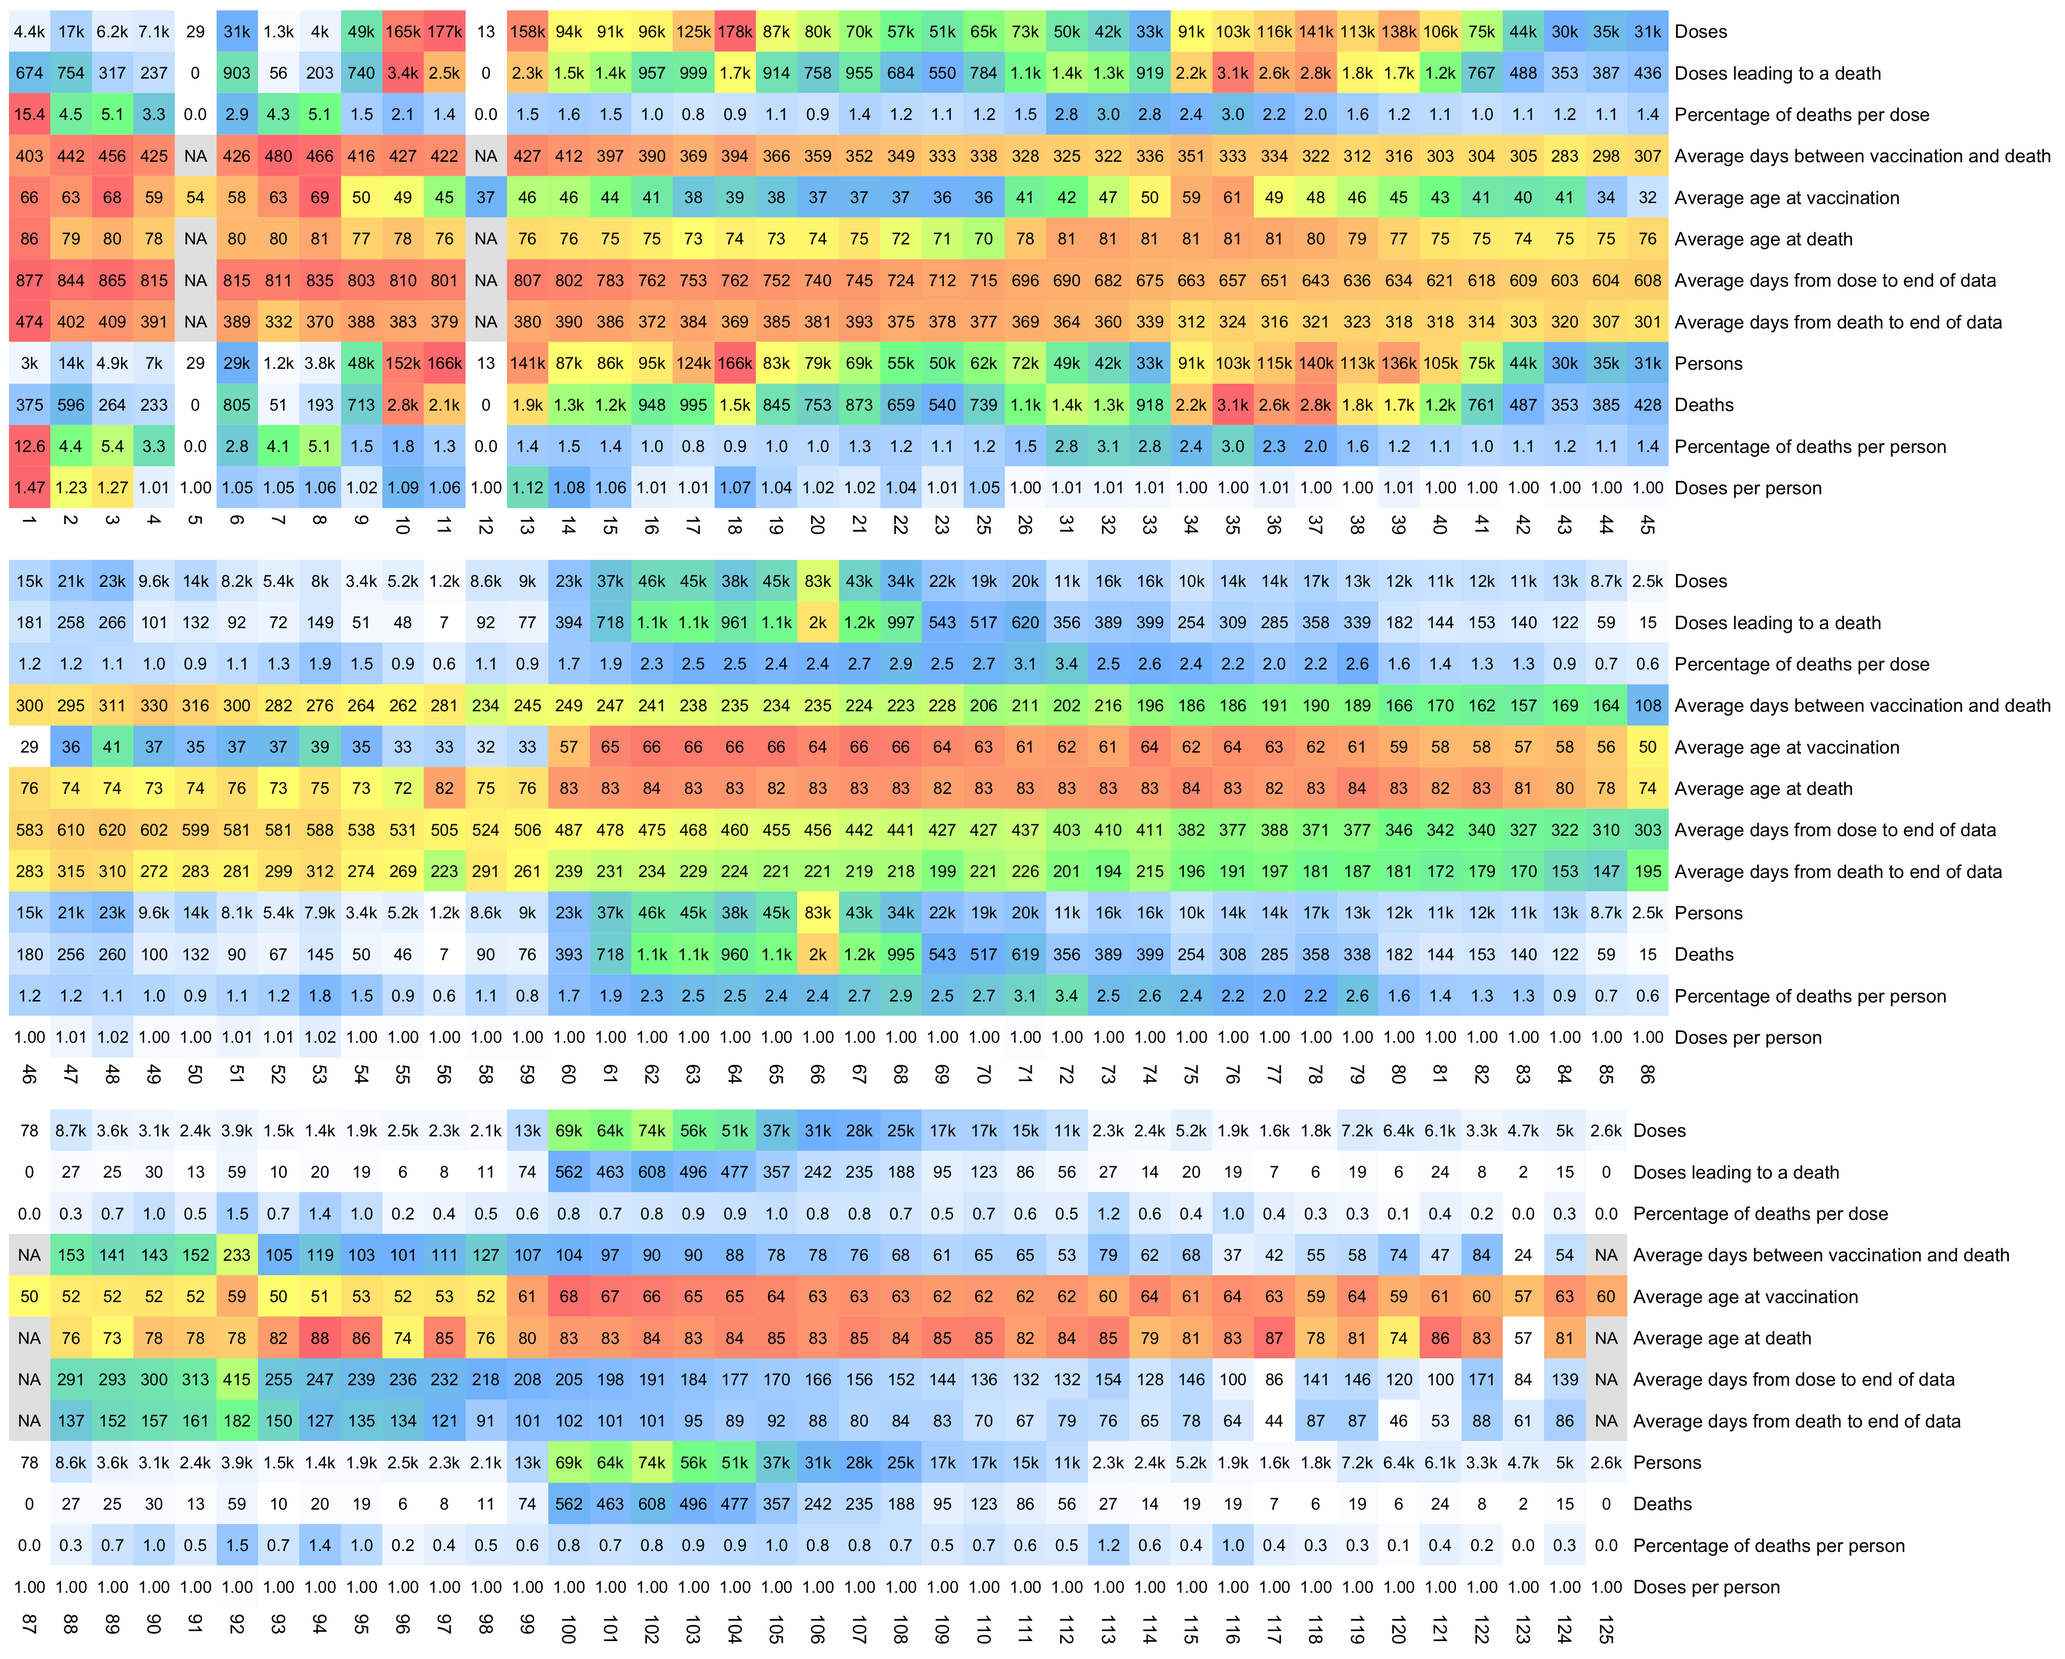
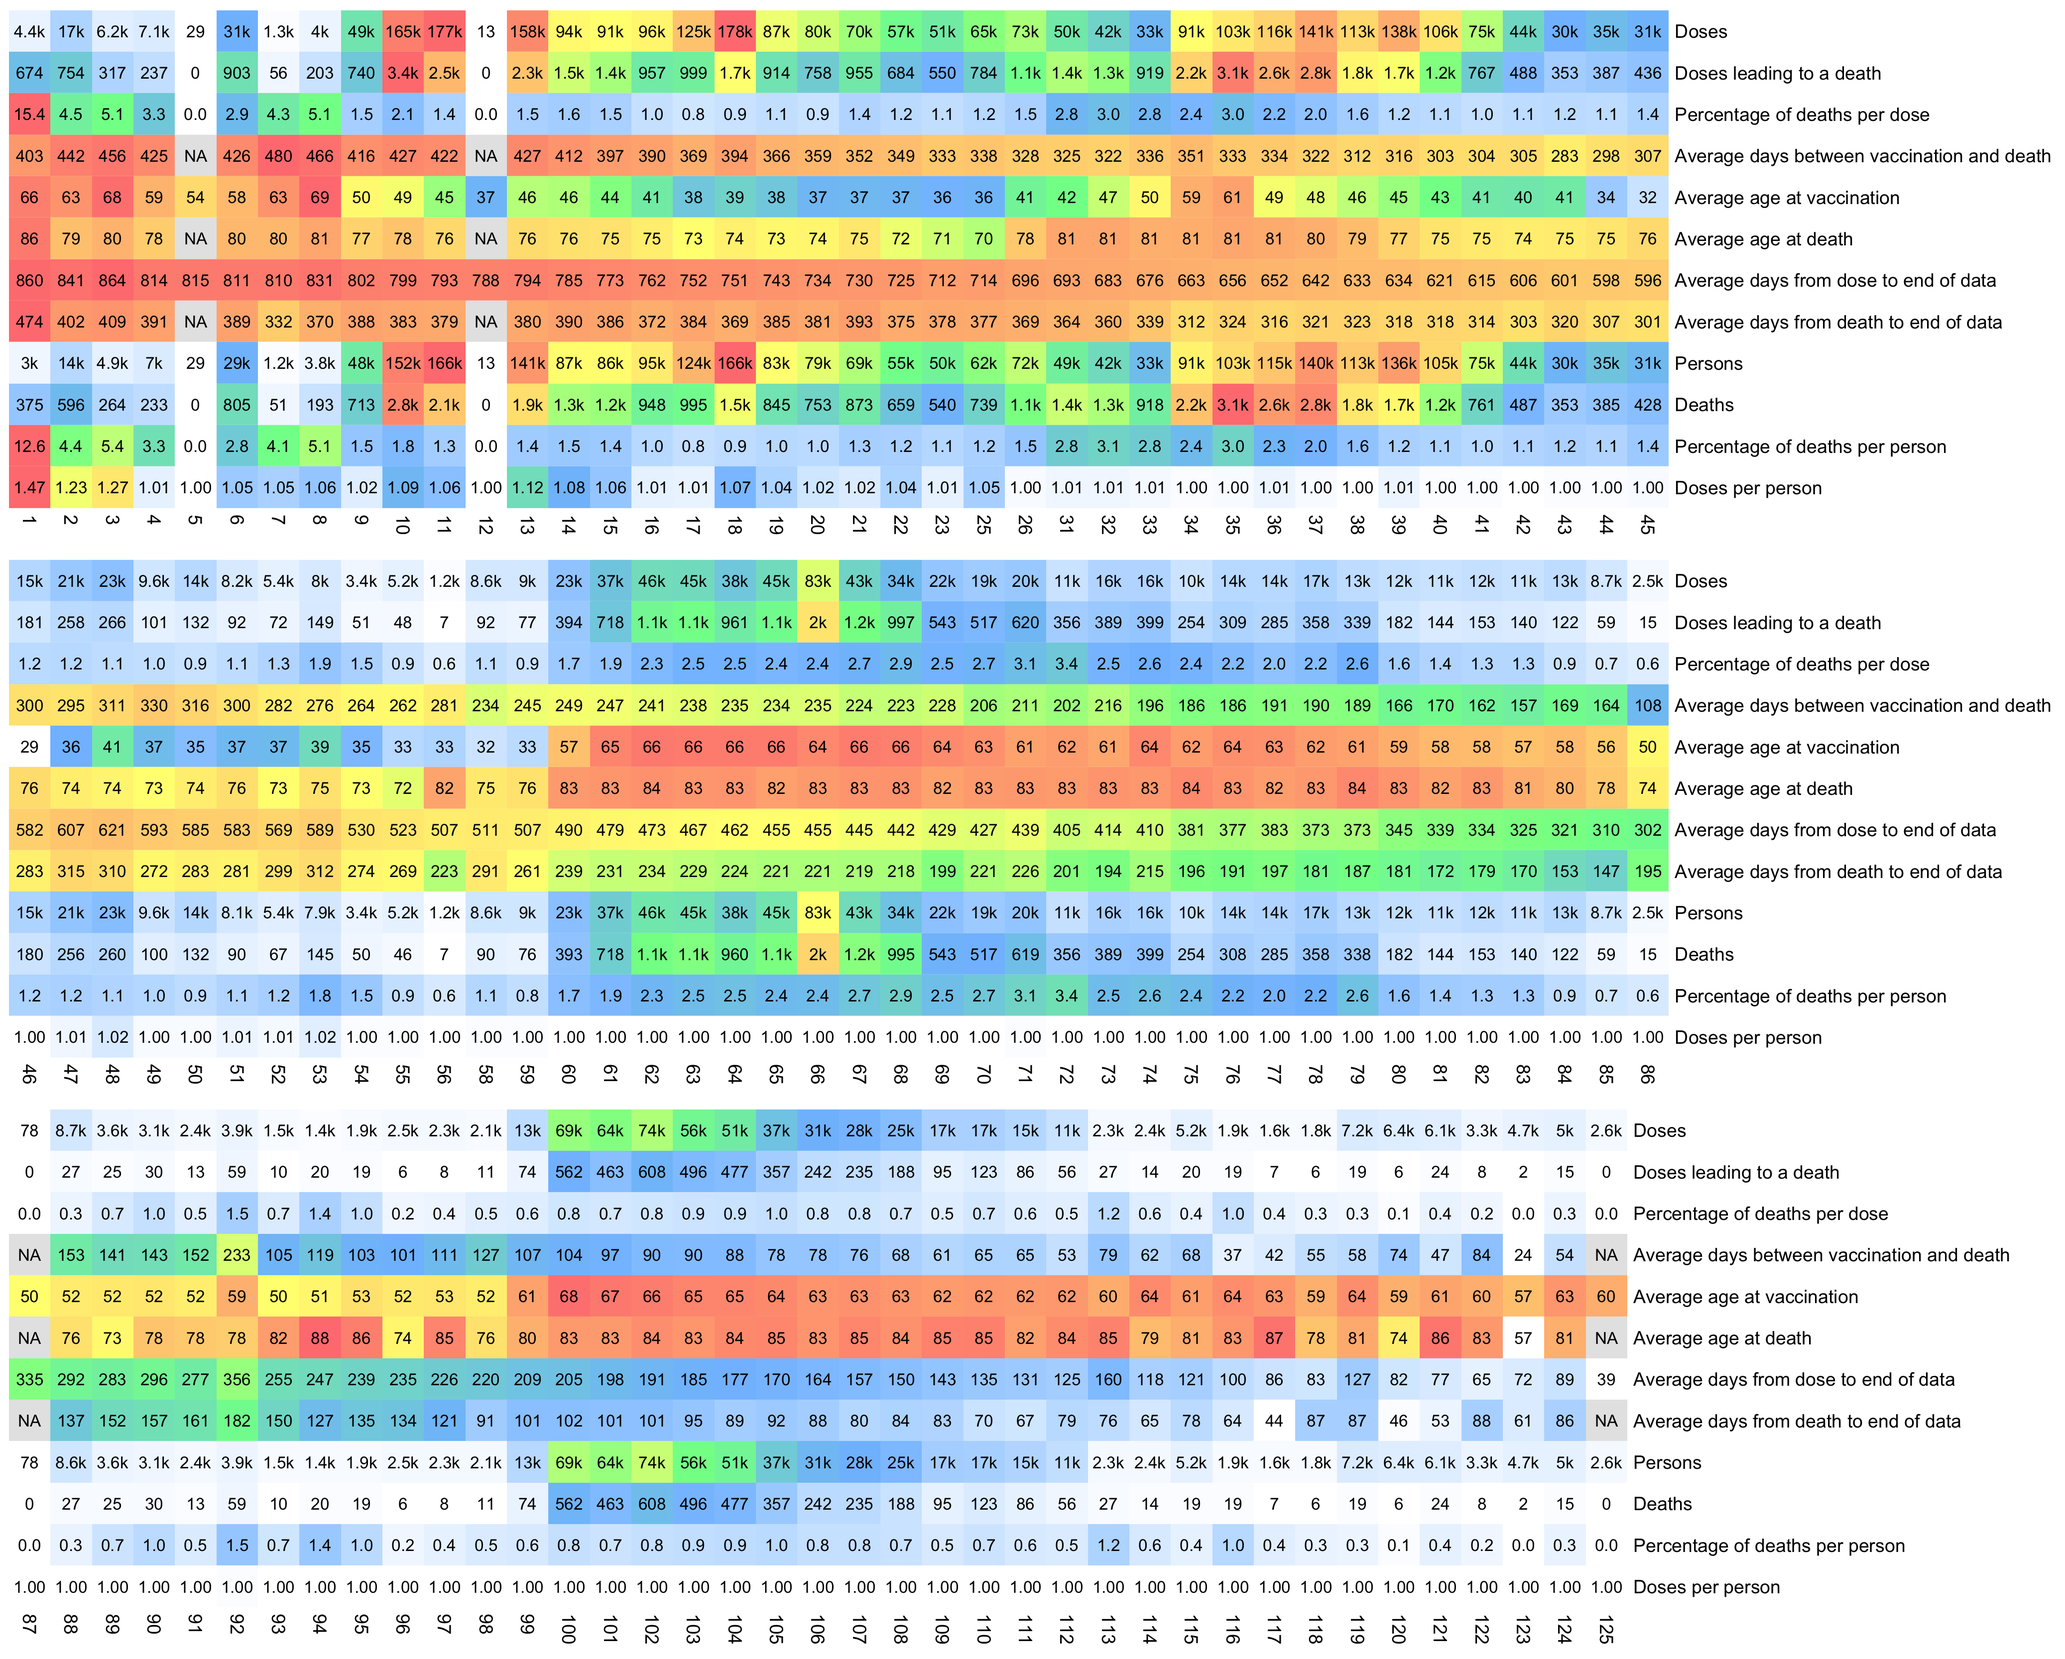
a

diff --git a/moar.html b/moar.html
@@ -172,7 +172,7 @@ $ awk -F, &#39;NR&gt;1{a[$3]++}END{for(i in a)print i,a[i]}&#39; nz-record-level
 28 1
 29 1
 32 1</pre>
-<p>There are 581 people who have different birthdays on different lines, but it might be an artifact of the obfuscation procedure where the dates of birth and vaccination were shifted by a random number of days (even though I thought that all dates of the same person were always shifted by the same amount of days):</p>
+<p>There are 581 people who have different birthdays on different lines, but it might be an artifact of the obfuscation procedure where the dates of birth and vaccination were shifted by a random number of days (even though from Kirsch's description it seemed that all dates of the same person were always shifted by the same amount of days):</p>
 <pre>$ cut -d, -f1,7 nz-record-level-data-4M-records.csv|awk &#39;!a[$0]++&#39;|awk -F, &#39;++a[$1]==2&#39;|wc -l
 581
 $ awk &#39;NR==1||/^292629,/&#39; nz-record-level-data-4M-records.csv
@@ -188,18 +188,18 @@ mrn,batch_id,dose_number,date_time_of_service,date_of_death,vaccine_name,date_of
 </div>
 <p>I noticed that the numbers in Young's table don't match the CSV file published by Kirsch, because for example batch 1 has a total of 711 doses in the table above but 4,386 doses in the CSV file. In the table above there's 5 different batches which have over 10% deaths, but in the CSV file there's only one batch with over 10% deaths. Some people received two doses from the same batch, so they are counted twice in columns 2-4 below but only once in columns 5-7, so for example there are 375 people who died after receiving batch 1, but many of them received two doses from batch 1 so there are 674 doses in batch 1 which led to a death:</p>
 <pre>$ awk -F, &#39;NR&gt;1{n[$2]++;n2[$2][$1]}$5{d[$2]++;d2[$2][$1]}END{for(i in d)print i FS n[i]FS d[i]FS 100*d[i]/n[i]FS length(n2[i])FS length(d2[i])FS 100*length(d2[i])/length(n2[i])}&#39; nz-record-level-data-4M-records.csv|sort -t, -rnk4|(echo batch,doses_given,doses_leading_to_deaths,doses_leading_to_deaths_pct,persons,deaths,deaths_per_person_pct;head)|column -ts,
-batch  doses_given  doses_leading_to_death  doses_leading_to_death_pct  persons  deaths  deaths_per_person_pct
-1      4386         674                     15.3671                     2979     375     12.5881
-3      6213         317                     5.10221                     4875     264     5.41538
-8      3986         203                     5.09282                     3774     193     5.11394
-2      16627        754                     4.53479                     13518    596     4.40894
-7      1288         56                      4.34783                     1232     51      4.13961
-72     10624        356                     3.3509                      10622    356     3.35153
-4      7111         237                     3.33286                     7015     233     3.32145
-71     20325        620                     3.05043                     20276    619     3.05287
-35     103143       3141                    3.04529                     102759   3129    3.04499
-32     42178        1281                    3.03713                     41866    1277    3.05021</pre>
-<p>Uncle John Returns figured out that people who later went on to have a subsequent vaccine dose were excluded from Young's table. [<a href="https://x.com/UncleJo46902375/status/1731625480527257928">https://x.com/UncleJo46902375/status/1731625480527257928</a>] You can almost reproduce the table if you sort the records by vaccination date and select only the newest record for each person (apart from small discrepancies in the number of deaths for some batches):</p>
+batch  doses   doses_leading_to_death  doses_leading_to_death_pct  persons  deaths  deaths_per_person_pct
+1      4386    674                     15.3671                     2979     375     12.5881
+3      6213    317                     5.10221                     4875     264     5.41538
+8      3986    203                     5.09282                     3774     193     5.11394
+2      16627   754                     4.53479                     13518    596     4.40894
+7      1288    56                      4.34783                     1232     51      4.13961
+72     10624   356                     3.3509                      10622    356     3.35153
+4      7111    237                     3.33286                     7015     233     3.32145
+71     20325   620                     3.05043                     20276    619     3.05287
+35     103143  3141                    3.04529                     102759   3129    3.04499
+32     42178   1281                    3.03713                     41866    1277    3.05021</pre>
+<p>Uncle John Returns figured out that people who later went on to have a subsequent vaccine dose were excluded from Young's table. [<a href="https://x.com/UncleJo46902375/status/1731625480527257928">https://x.com/UncleJo46902375/status/1731625480527257928</a>] You can almost reproduce the table if you sort the records by vaccination date and select only the newest record for each person (but for some reason there are small discrepancies in the number of deaths for some batches):</p>
 <pre>&gt; t=read.csv(&quot;nz-record-level-data-4M-records.csv&quot;)
 &gt; t2=t
 &gt; for(i in grep(&quot;date&quot;,colnames(t2)))t2[,i]=as.Date(t2[,i],&quot;%m-%d-%Y&quot;)
@@ -221,7 +221,7 @@ batch  doses_given  doses_leading_to_death  doses_leading_to_death_pct  persons 
     72  5882    280  4.760286
     62 18173    834  4.589226
     71 11019    504  4.573918</pre>
-<p>However Young's method exaggerates the percentage of deaths per batch, because a common reason why someone would only get a vaccine from batch 1 but not subsequent batches was that they died before they could get more vaccine doses. And in Young's table, the seven batches with the highest percentage of deaths were all early batches with an ID below 10.</p>
+<p>However Young's method exaggerates the percentage of deaths per batch, because a common reason why some person would only get a vaccine from batch 1 but not subsequent batches was that the person died before they could get more vaccine doses. And in Young's table, the seven batches with the highest percentage of deaths were all early batches with an ID below 10.</p>
 <h2>
 <a href=#Counting_days_with_more_than_120_deaths id=Counting_days_with_more_than_120_deaths>Counting days with more than 120 deaths</a>
 </h2>
@@ -363,9 +363,14 @@ ggsave(&quot;1.png&quot;,width=6,height=3)</pre>
 <li>The impact of the healthy vaccinee effect gets weaker over time.</li>
 <li>Many people got vaccinated in 2021 before there was the wave of COVID deaths in 2022 (even though a similar increasing trend is visible in deaths that occurred before February 2022 when there was the first big increase in COVID deaths).</li>
 <li>50 weeks after a vaccination people are older than at the time of vaccination, and most deaths are in such old people that even a single year makes a difference in the mortality rate.</li>
-<li>In the scenario that people died becauce of the vaccines, 50 weeks after a vaccination some people have received further vaccine doses which may have contributed to their death. If someone died 50 weeks after the first dose and 20 weeks after the second dose, I counted their death both under 20 weeks and 50 weeks in my plot.</li>
-<li>There was negative excess mortality in 2021, so in the earlier weeks following vaccination there was more likely to be negative excess mortality than in the later weeks following vaccination.</li>
+<li>In the scenario that people died because of the vaccines, 50 weeks after a vaccination some people have received further vaccine doses which may have contributed to their death. If someone died 50 weeks after the first dose and 20 weeks after the second dose, I counted their death both under 20 weeks and 50 weeks in my plot.</li>
+<li>There was negative excess mortality in 2021, so in the earlier weeks following vaccination there was more likely to be negative excess mortality than in the later weeks following vaccination. According to <a href=https://app.powerbi.com/view?r=eyJrIjoiZTkyODcyOTEtZjA5YS00ZmI0LWFkZGUtODIxNGI5OTE3YjM0IiwidCI6ImY2MTBjMGI3LWJkMjQtNGIzOS04MTBiLTNkYzI4MGFmYjU5MCIsImMiOjh9>WHO's statistics</a> there were also zero positive influenza tests in New Zealand from late 2019 until the first week of 2023, so I think in the earlier weeks following a vaccination people are less likely to have died of influenza.</li>
+<li>For some doses, the late part of the 51-week period may have included a disproportionate number of days during the winter, or the early part of the 51-week period may have included a disproportionate number of days during the summer.</li>
 </ol>
+<p>The plot below is otherwise the same as my previous plot but I only included the most recent dose listed for each person. Now dose 1 includes atypical people who didn't get a subsequent dose after the first dose, which is commonly because the people died before they could get more shots, so dose 1 has a huge spike in deaths for the first few weeks after vaccination:</p>
+<div class="width6">
+<img src="i/moar-days-to-death-by-dose-4.png">
+</div>
 <p>R code:</p>
 <pre>library(ggplot2)
 
@@ -530,7 +535,7 @@ $ awk &#39;NR==1||/New Zealand/&#39; owid-covid-data.csv|csvtk cut -f date,new_v
 <img src="i/moar-heat.png">
 </div>
 <p>In the heatmap above, the end of data refers to October 27th 2023 which is the date of the last death included in the dataset. I calculated the person-years by calculating the time from a vaccine dose until either death or October 27th 2023, so that I included the time after a person got a subsequent dose as part of the person-years of earlier doses.</p>
-<p>The first 8 rows in the heatmap above are per-dose but the last 4 rows are per-person. There are some people who got two doses from the same batch and who died later, but they are counted twice on the row for doses leading to deaths. Batch 1 has the highest percentage of people with 2 doses from the same batch, and the people who got 2 doses from batch 1 are more likely to have died later than the people who got only a single dose from batch 1, so in batch 1 the percentage of deaths per person is lower than the percentage of doses leading to deaths out of all doses.</p>
+<p>The first 8 rows in the heatmap above are per-dose but the last 4 rows are per-person. If a person got two doses from the same batch and died later, the person is counted twice on the row for doses leading to deaths. Batch 1 has the highest percentage of people who got 2 doses from the same batch, and the people who got 2 doses from batch 1 are more likely to have died later than the people who got only a single dose from batch 1, so in batch 1 the percentage of deaths per person is lower than the percentage of doses leading to deaths out of all doses.</p>
 <p>R code:</p>
 <pre>t=as.data.frame(data.table::fread(&quot;nz-record-level-data-4M-records.csv&quot;)) # faster than `read.csv`
 for(i in grep(&quot;date&quot;,colnames(t)))t[,i]=as.Date(t[,i],&quot;%m-%d-%Y&quot;)
@@ -547,10 +552,10 @@ d=data.frame(Doses=c(doses))
 d$`Doses leading to a death`=deaths
 d$`Percentage of deaths per dose`=100*deaths/doses
 d$`Average days between vaccination and death`=tapply(dead$date_of_death-dead$date_time_of_service,fa,mean)
-d$`Average age at vaccination`=tapply(t$date_time_of_service-birth1,t$batch_id,mean)/365.2422
+d$`Average age at vaccination`=tapply(t$date_time_of_service-t$date_of_birth,t$batch_id,mean)/365.2422
 d$`Average age at death`=tapply(dead$date_of_death-dead$date_of_birth,fa,mean)/365.2422
 # d$`Average age at vaccination for dead recipients`=tapply(dead$date_time_of_service-dead$date_of_birth,dead$batch_id,mean)/365.2422
-d$`Average days from dose to end of data`=tapply(maxdate-dead$date_time_of_service,fa,mean)
+d$`Average days from dose to end of data`=tapply(maxdate-t$date_time_of_service,t$batch_id,mean)
 d$`Average days from death to end of data`=tapply(maxdate-dead$date_of_death,fa,mean)
 d$Persons=persons
 d$Deaths=uniqdeaths
@@ -585,7 +590,7 @@ for(i in 1:slices){
     number_color=&quot;black&quot;,
     na_col=&quot;gray90&quot;,
     breaks=seq(0,1,,256),
-    colorRampPalette(hex(HSV(c(210,210,130,60,40,20,0),c(0,.5,.5,.5,.5,.5,.5),1)))(256)
+    colorRampPalette(colorspace::hex(colorspace::HSV(c(210,210,130,60,40,20,0),c(0,.5,.5,.5,.5,.5,.5),1)))(256)
   )
 }
 system(&quot;montage -geometry +0+0 -tile 1x i[123].png 1.png&quot;)</pre>
@@ -799,8 +804,8 @@ Covid Paediatric Pfizer,GE0694,2023-10-31,249600</pre>
 <h2>
 <a href=#Research_by_other_people id=Research_by_other_people>Research by other people</a>
 </h2>
-<p>Uncle Joe Returns calculated monthly age-standardized mortality rates: <a href="https://twitter.com/UncleJo46902375/status/1732496623123517742">https://twitter.com/UncleJo46902375/status/1732496623123517742</a>.</p>
-<p>WelcomeTheEagle made an interactive dashboard for browsing the data: <a href="https://www.vaersaware.com/new-zealand">https://www.vaersaware.com/new-zealand</a>.</p>
+<p>Uncle John Returns calculated monthly age-standardized mortality rates. [<a href="https://twitter.com/UncleJo46902375/status/1732496623123517742">https://twitter.com/UncleJo46902375/status/1732496623123517742</a>, <a href="https://twitter.com/UncleJo46902375/status/1732770174896329107">https://twitter.com/UncleJo46902375/status/1732770174896329107</a>]</p>
+<p>WelcomeTheEagle made an interactive dashboard for browsing the data, and he estimated what percentage of the population is missing in different age groups. [<a href="https://www.vaersaware.com/new-zealand">https://www.vaersaware.com/new-zealand</a>, <a href="https://twitter.com/welcometheeagle/status/1731965868505276654/">https://twitter.com/welcometheeagle/status/1731965868505276654/</a>]</p>
 <script>
 let q=document.querySelectorAll('a,code,pre')
 for(let i=0;e=q[i];i++)e.innerHTML=e.innerHTML.replace(/(\w{60,})/g,x=>x.replace(/./g,"$&<wbr>")).replace(/([\041-\045\047-\057\072\075\077-\100\133-\137\173-\176])/g,"$1<wbr>")
